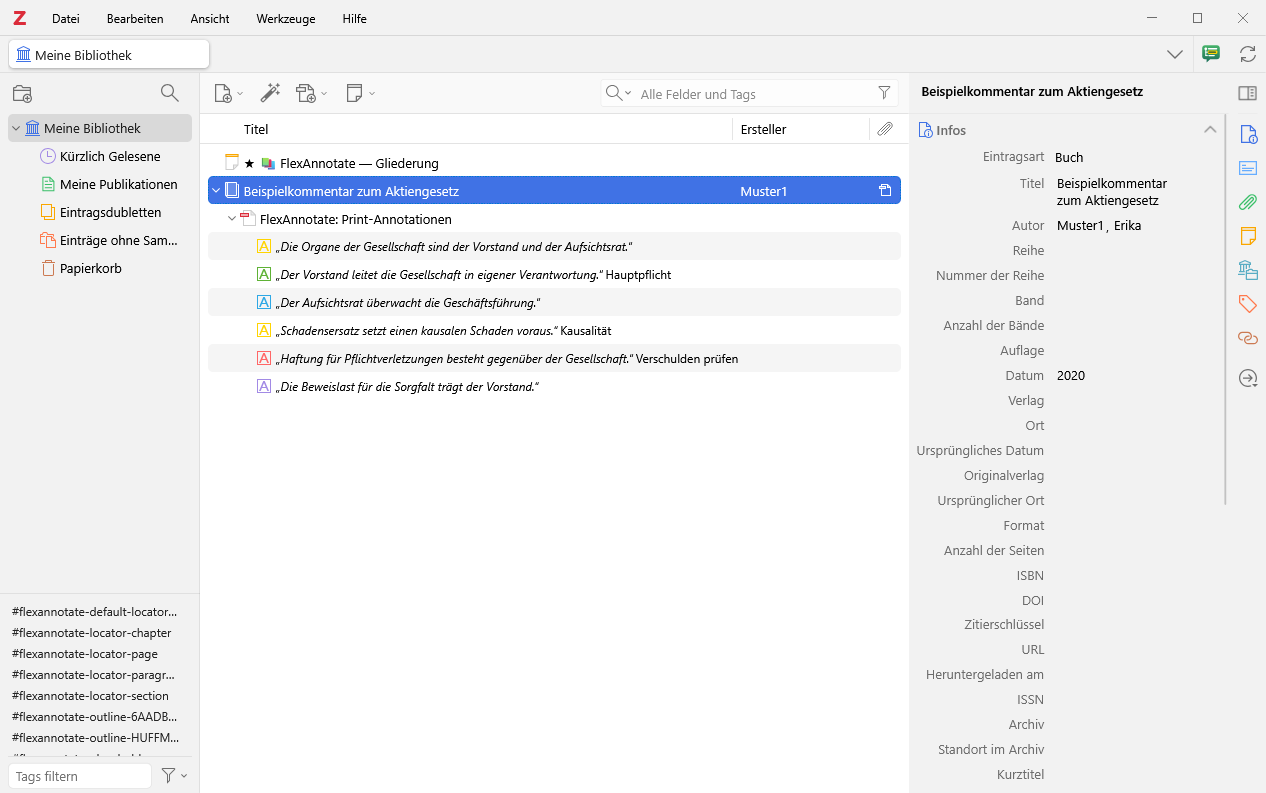
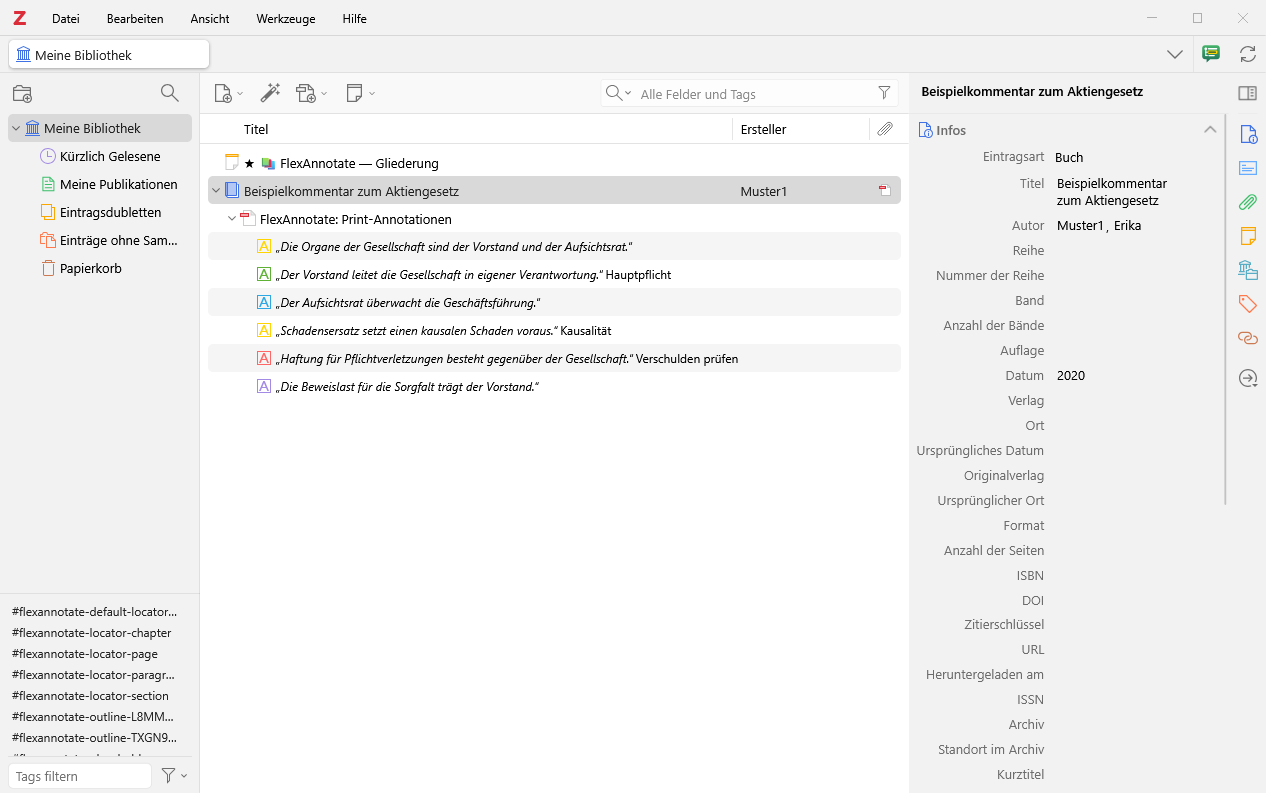
feat(prefs): align locator menus in a grid; drop Citavi comparisons from UI text and docs

Changed region(s): [[0.154, 0.2119, 0.7085, 0.2724], [0.0924, 0.8777, 0.154, 0.9382]]

diff --git a/test/preferences.test.ts b/test/preferences.test.ts
@@ -1,5 +1,6 @@
 import { assert } from "chai";
 import { config } from "../package.json";
+import { waitFor } from "./helpers";
 
 // Die Pane wird über Zotero.PreferencePanes.register() in hooks.ts angemeldet.
 function findPane() {
@@ -29,6 +30,32 @@ describe("preferences pane", function () {
     for (const key of keys) {
       assert.isTrue(key.startsWith(`${config.prefsPrefix}.`), key);
       assert.isDefined(Zotero.Prefs.get(key, true), `default for ${key}`);
+    }
+  });
+
+  it("aligns the locator menus in one left-aligned column", async function () {
+    const pane = findPane();
+    assert.isDefined(pane);
+    Zotero.Utilities.Internal.openPreferences(pane!.id!);
+    const win = await waitFor(() => {
+      const en = Services.wm.getEnumerator("zotero:pref");
+      return en.hasMoreElements() ? (en.getNext() as Window) : null;
+    });
+    try {
+      const ids = ["page", "column", "paragraph", "margin", "other"].map(
+        (k) => `flexannotate-pref-citavi-locator-${k}`,
+      );
+      const lefts = await waitFor(() => {
+        const els = ids.map((id) => win.document.getElementById(id));
+        if (els.some((el) => !el)) return null;
+        const rects = els.map((el) => (el as Element).getBoundingClientRect());
+        return rects.every((r) => r.width > 0)
+          ? rects.map((r) => r.left)
+          : null;
+      });
+      assert.lengthOf(new Set(lefts.map((l) => Math.round(l))), 1, `${lefts}`);
+    } finally {
+      win.close();
     }
   });
 });

diff --git a/src/features/organizer/panel/organizer.ts b/src/features/organizer/panel/organizer.ts
@@ -5,7 +5,7 @@
  *   column 2: one-line rows (annotations or works) with a permanent assign bar
  *   column 3: details of the selected row (editable), citation and categories
  *
- * Two tabs like Citavi: "Wissen" (annotations) and "Titel" (works). Rows are
+ * Two tabs: "Wissen" (annotations) and "Titel" (works). Rows are
  * filed under a heading by multi-select + assign bar, or by drag and drop onto
  * a tree node. A heading is a Zotero tag; the tree lives in the outline note.
  * The entries can be restricted to a collection (and its subcollections).

diff --git a/src/features/organizer/panel/organizerData.ts b/src/features/organizer/panel/organizerData.ts
@@ -1,7 +1,7 @@
 /**
  * organizerData — rows for the organizer window and bulk filing.
  *
- * Two kinds of rows, like Citavi's two tabs: "work" rows (Titel) are regular
+ * Two kinds of rows: "work" rows (Titel) are regular
  * Zotero items, "annotation" rows (Wissen) come from the annotation index.
  * Filing a row under a heading = adding the heading's tag to the item.
  */

diff --git a/NOTICE.md b/NOTICE.md
@@ -25,7 +25,7 @@ Die vollständige Git-Historie von Lattice ist in diesem Repository enthalten (R
 
 - Anpassung an Zotero 10.
 - **Entfernt:** die KI-Komponente (Fragen und Antworten über PDFs, LLM-Anbindungen) und die Ideen-Ebene.
-- **Neu:** dreispaltiges Organizer-Fenster nach dem Vorbild der Citavi-Wissensorganisation (Gliederung · Zitate · Details), Zuordnung von **Werken und Annotationen** zu Kategorien per Drag and Drop und Mehrfachauswahl, Einstellung zur Anzeige von Werken in der Annotationsansicht, Ansicht nach Gliederung im Zitierdialog, der sich aus Word öffnet.
+- **Neu:** dreispaltiges Organizer-Fenster (Gliederung · Zitate · Details), Zuordnung von **Werken und Annotationen** zu Kategorien per Drag and Drop und Mehrfachauswahl, Einstellung zur Anzeige von Werken in der Annotationsansicht, Ansicht nach Gliederung im Zitierdialog, der sich aus Word öffnet.
 - Eingebunden in FlexAnnotate mit eigenem Namen, eigener Plugin-ID und eigener Dokumentation.
 
 ## Pflichten aus der AGPL-3.0 (Kurzfassung, keine Rechtsberatung)
@@ -34,6 +34,6 @@ Die vollständige Git-Historie von Lattice ist in diesem Repository enthalten (R
 - Änderungen sind als solche gekennzeichnet (Git-Historie, diese Datei).
 - Der Quellcode jeder verteilten oder über ein Netzwerk angebotenen Fassung ist unter derselben Lizenz zugänglich.
 
-_Citavi_ ist eine Marke ihres jeweiligen Inhabers. FlexAnnotate ist **kein** Citavi-Produkt und steht in keiner Verbindung dazu; Citavi dient nur als Vorbild für Begriffe und Bedienkonzept.
+_Citavi_ ist eine Marke ihres jeweiligen Inhabers. FlexAnnotate ist **kein** Citavi-Produkt und steht in keiner Verbindung dazu; der Citavi-Import liest lediglich Exportdateien.
 
 Stand: 2026-10-12

diff --git a/README.md b/README.md
@@ -12,7 +12,7 @@ Ein Zotero-Plugin für alle, die mit gedruckten Quellen arbeiten: Kommentare, Le
 
 Zotero hängt Annotationen an Dateien, also an PDFs, EPUBs oder Snapshots. Ein gedrucktes Buch hat keine Datei, und damit kann man dort keine Textstelle mit Seitenzahl festhalten. Dazu kommen zwei weitere Hürden: Word und LibreOffice fügen eine Annotation immer samt Zitattext ein, und Zoteros Citavi-Import wirft Zitate ohne PDF-Anker weg.
 
-FlexAnnotate löst diese drei Dinge und bringt einen Organizer mit, der Annotationen nach Gliederungspunkten sortiert, ähnlich wie die Wissensorganisation in Citavi.
+FlexAnnotate löst diese drei Dinge und bringt einen Organizer mit, der Annotationen nach Gliederungspunkten sortiert.
 
 ### Was es kann
 
@@ -89,7 +89,7 @@ Getestet sind 7.0.32, 8.0.4, 9.0.6 und 10.0.5/10.0.6. Alles Wichtige läuft auf 
 
 Zotero attaches annotations to files: PDFs, EPUBs, snapshots. A printed book has no file, so you cannot save a passage with a page number. Two more problems: Word and LibreOffice always insert an annotation together with its quoted text, and Zotero's Citavi import throws away quotes that have no PDF anchor.
 
-FlexAnnotate deals with all three. It also ships an Organizer that sorts annotations under outline headings, much like knowledge organisation in Citavi.
+FlexAnnotate deals with all three. It also ships an Organizer that sorts annotations under outline headings.
 
 ### What it does
 
